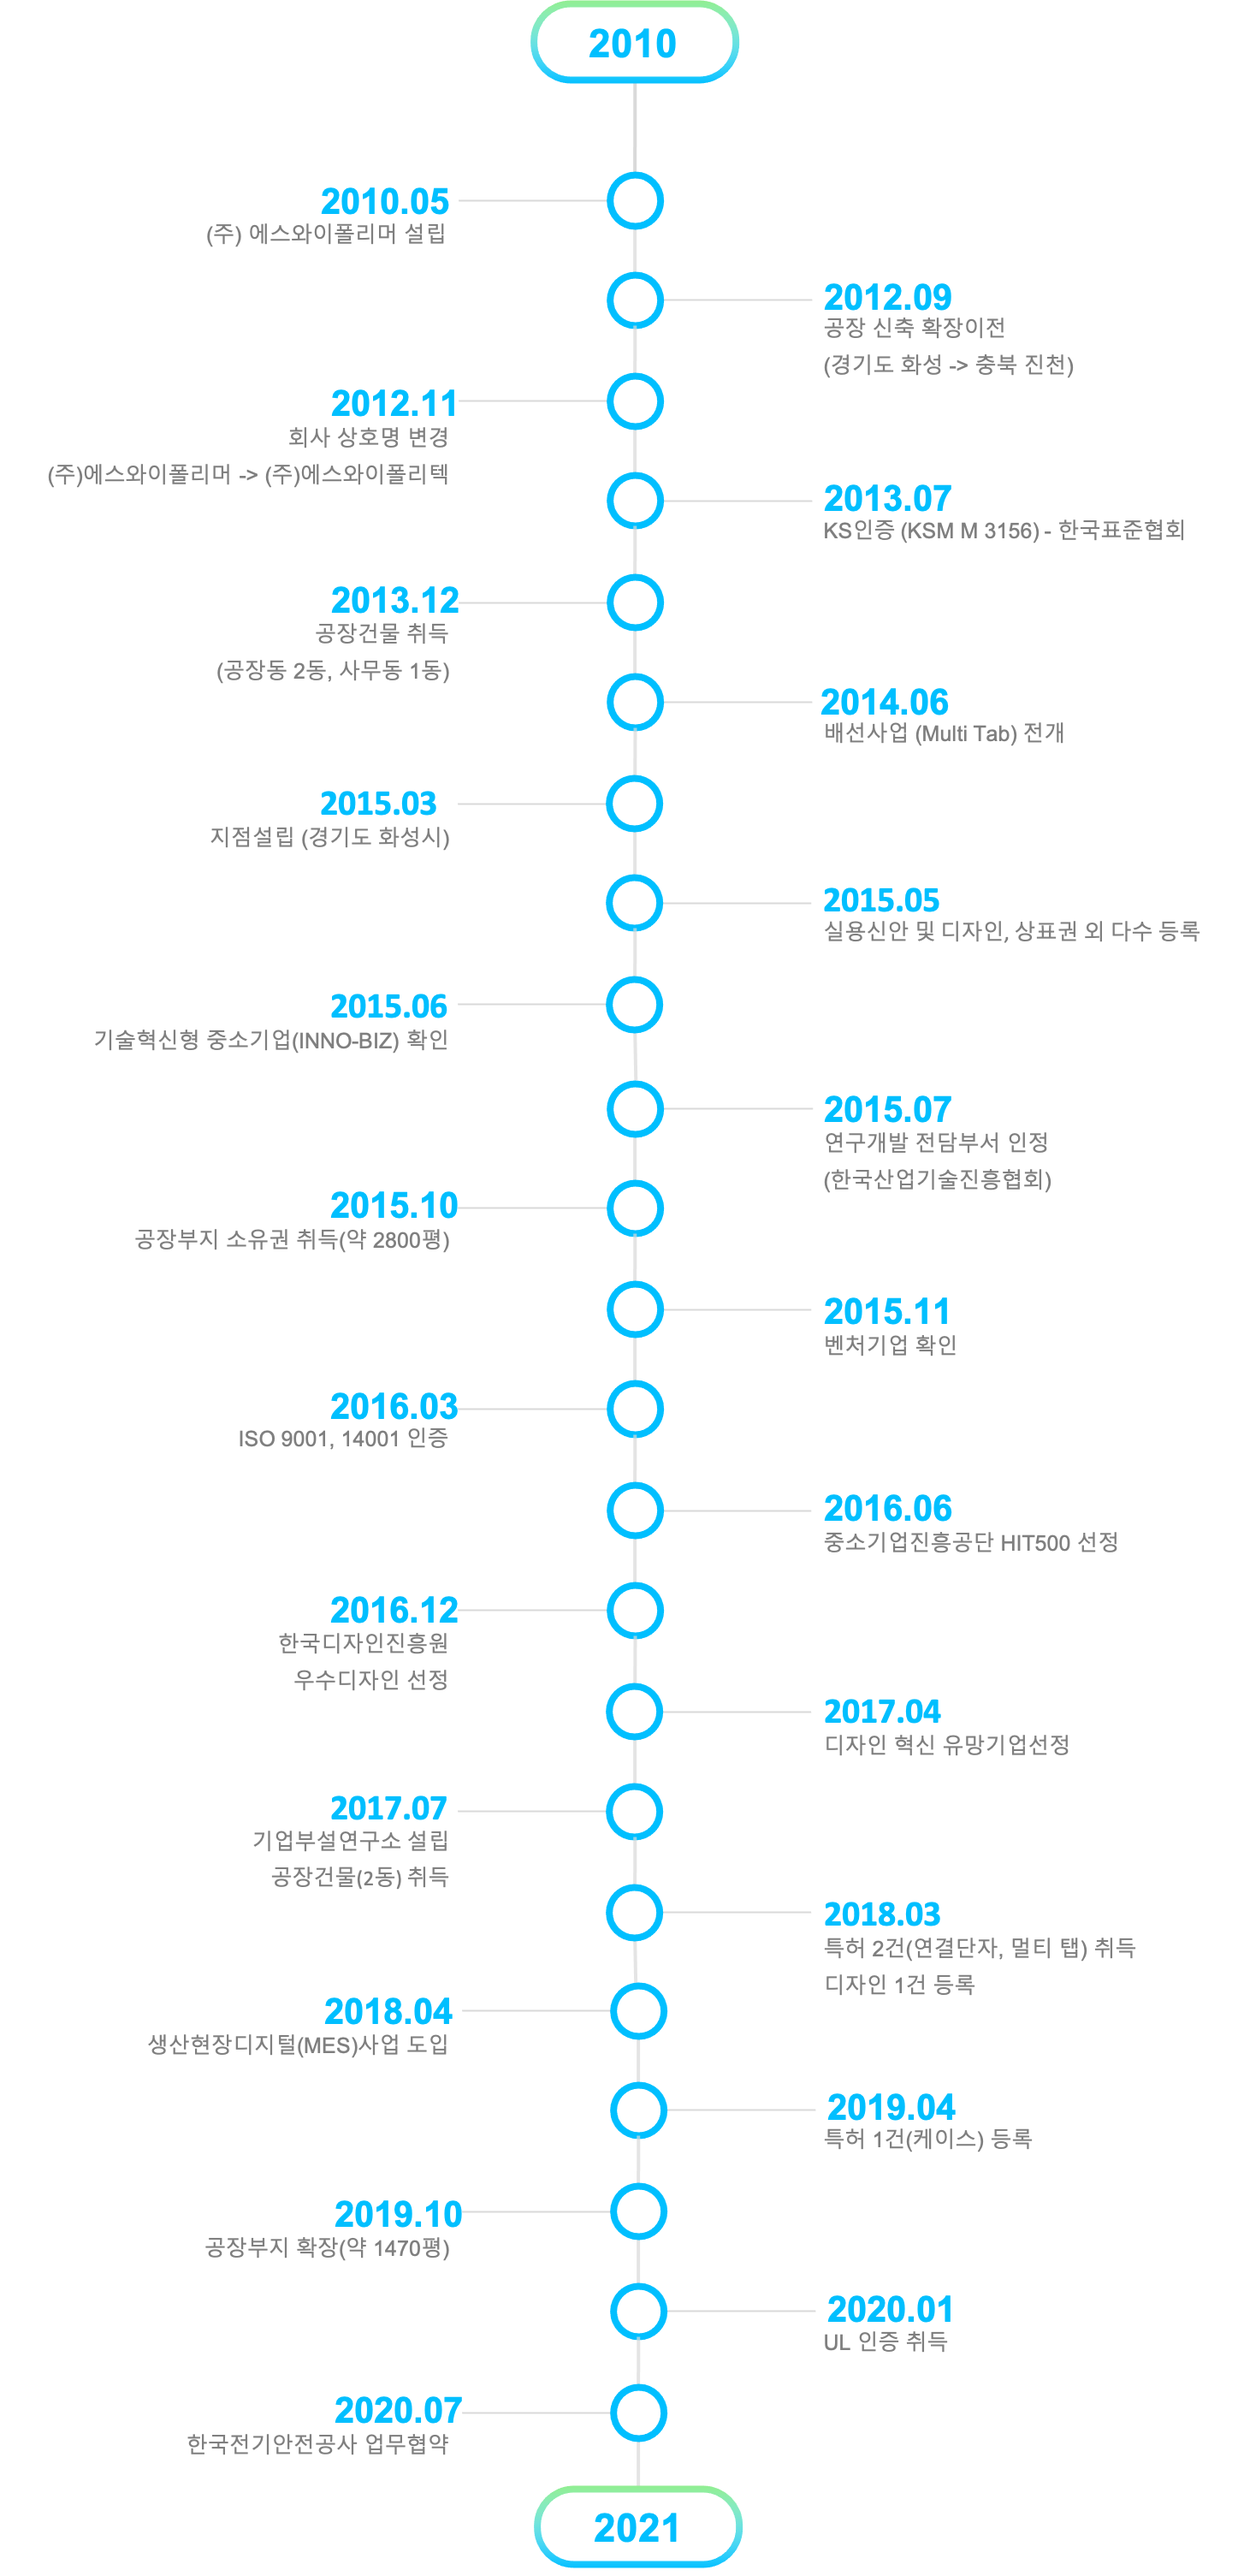
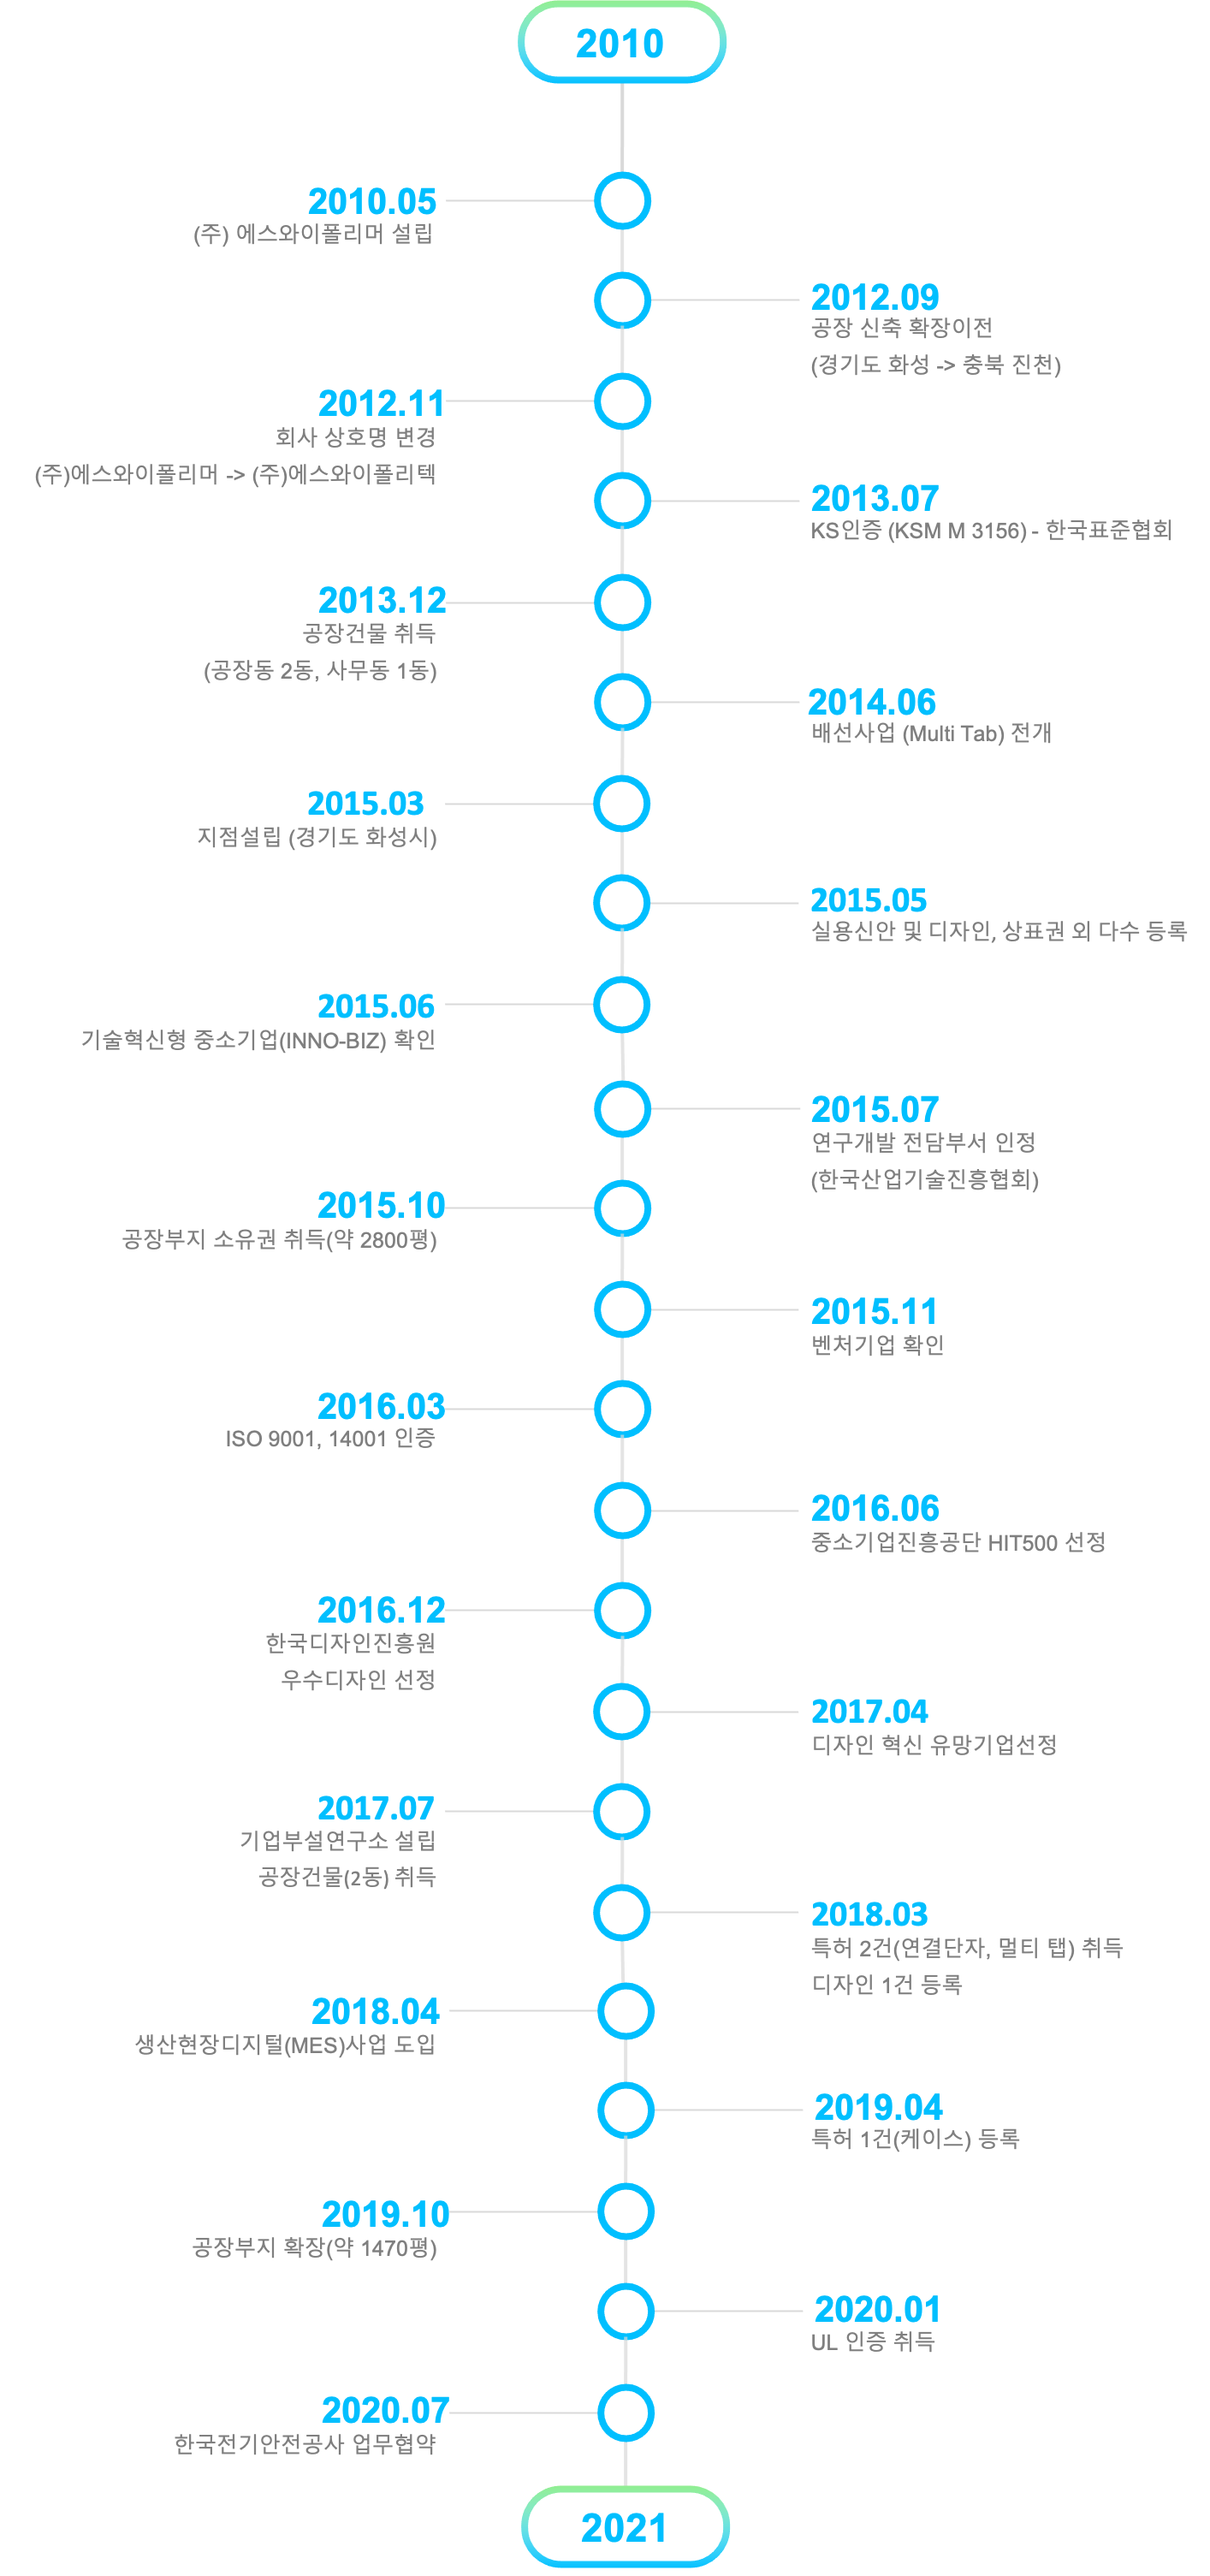
연혁 다국어

diff --git a/src/main/resources/static/js/company/companyOrigin.js b/src/main/resources/static/js/company/companyOrigin.js
@@ -1,3 +1,9 @@
 $(document).ready(function () {
     $("#companyOrigin").addClass("menuOn");
+    let nowSearchData = location.search;
+    if (nowSearchData == "?lang=en") {
+        $('.originContent img').attr('src', '/images/company/companyOrigin/origin_en.png')
+    } else {
+        $('.originContent img').attr('src', '/images/company/companyOrigin/origin.png')
+    }
 });
